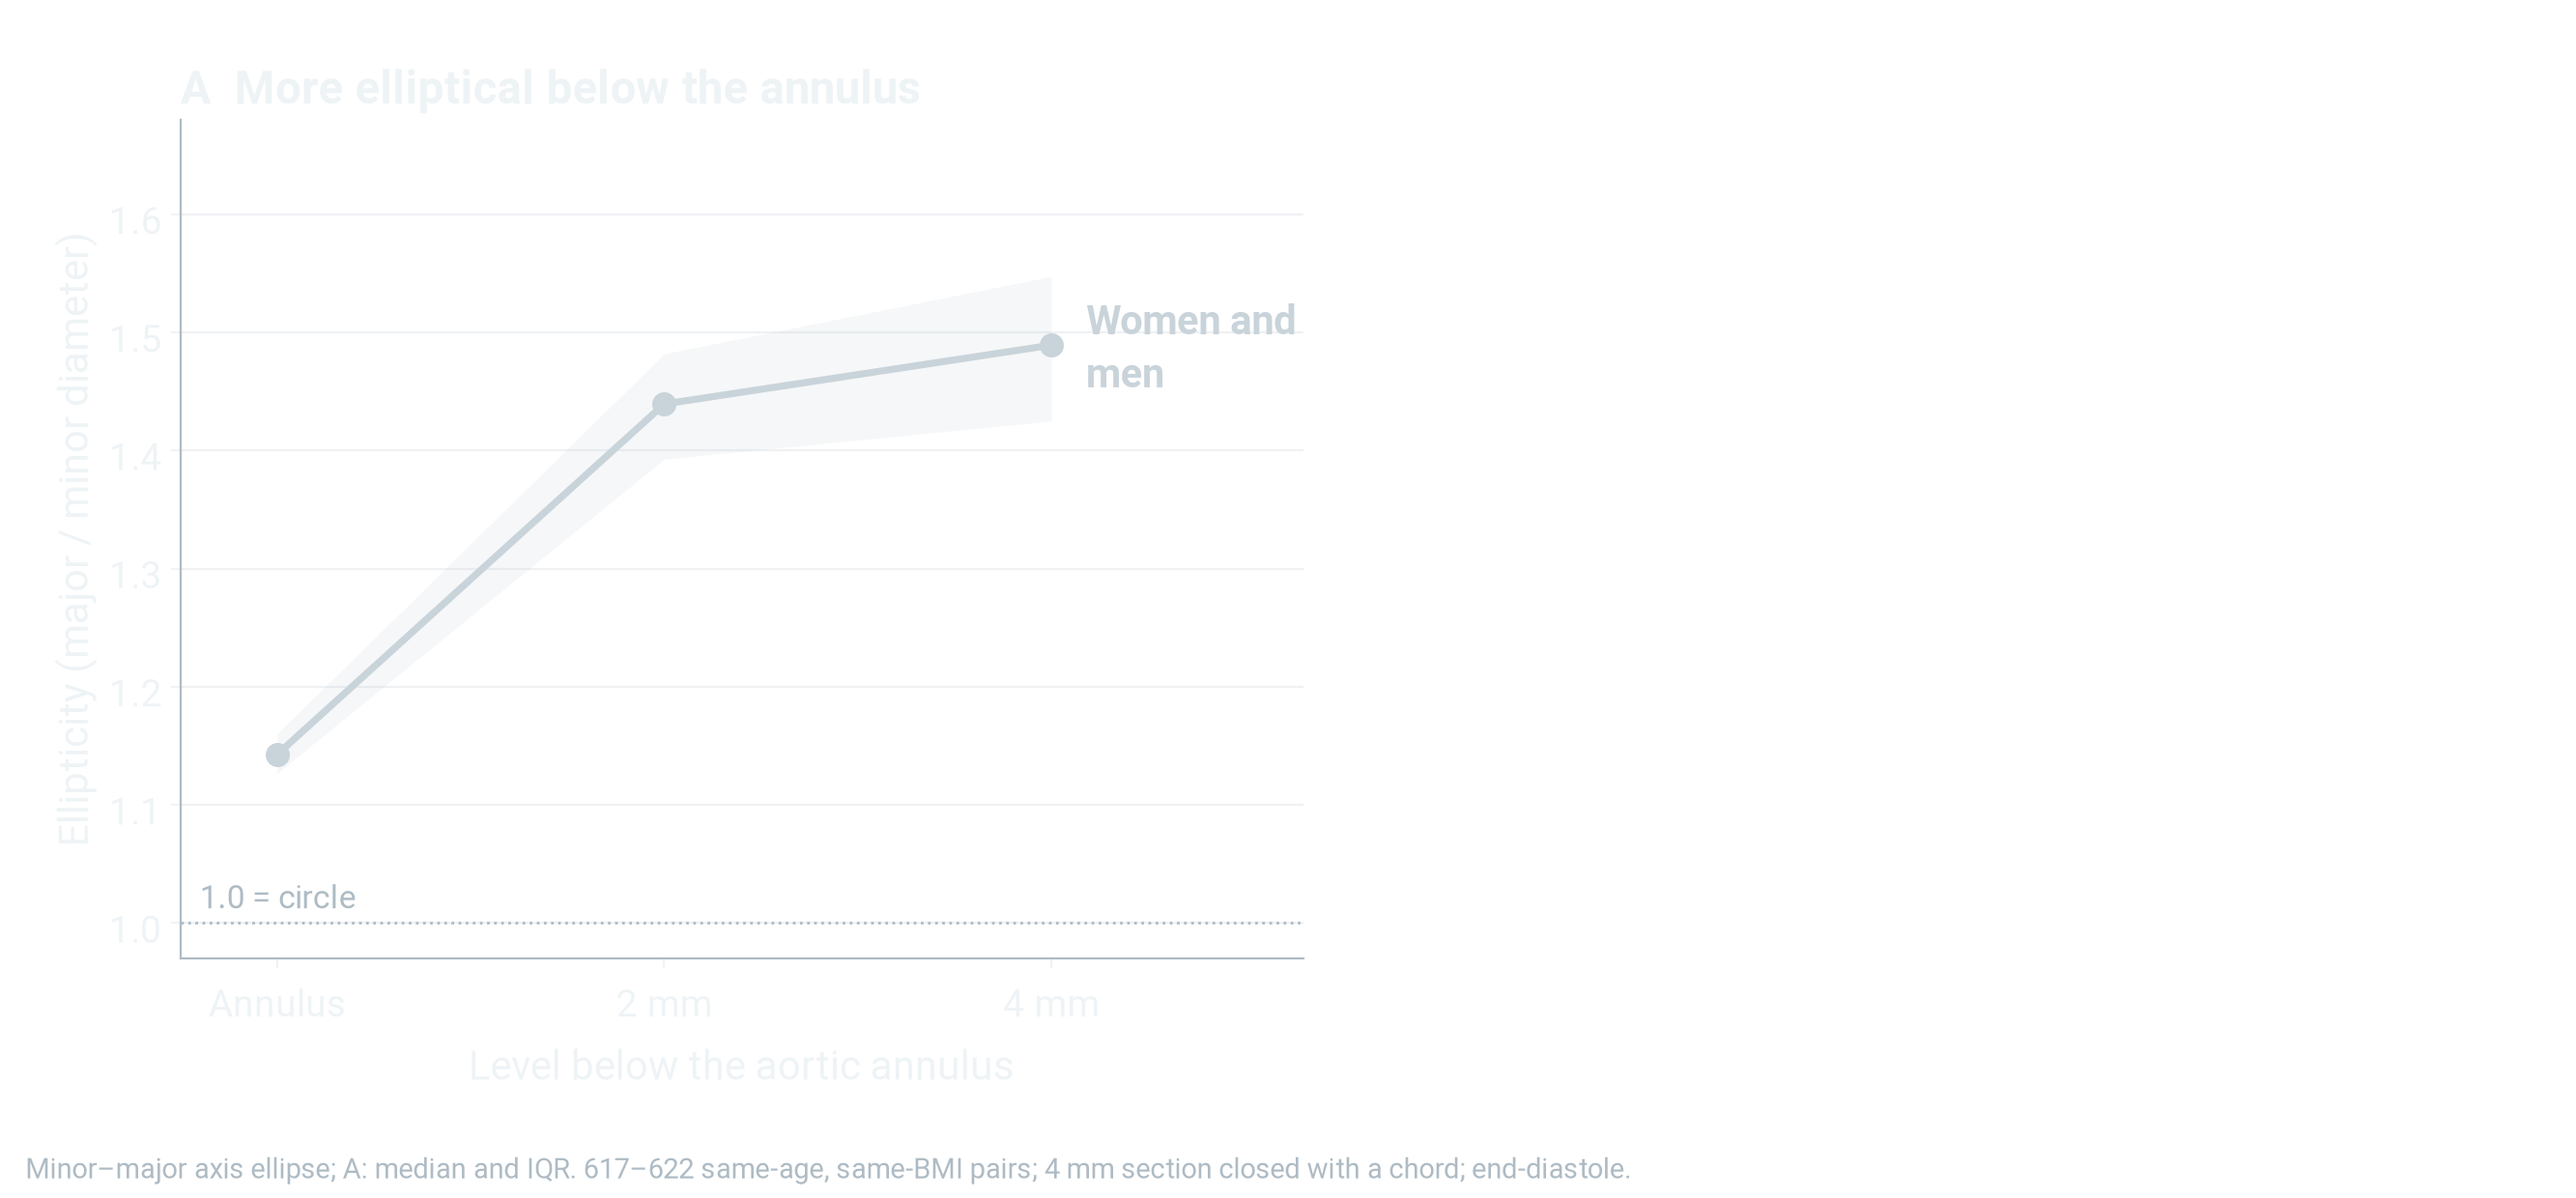
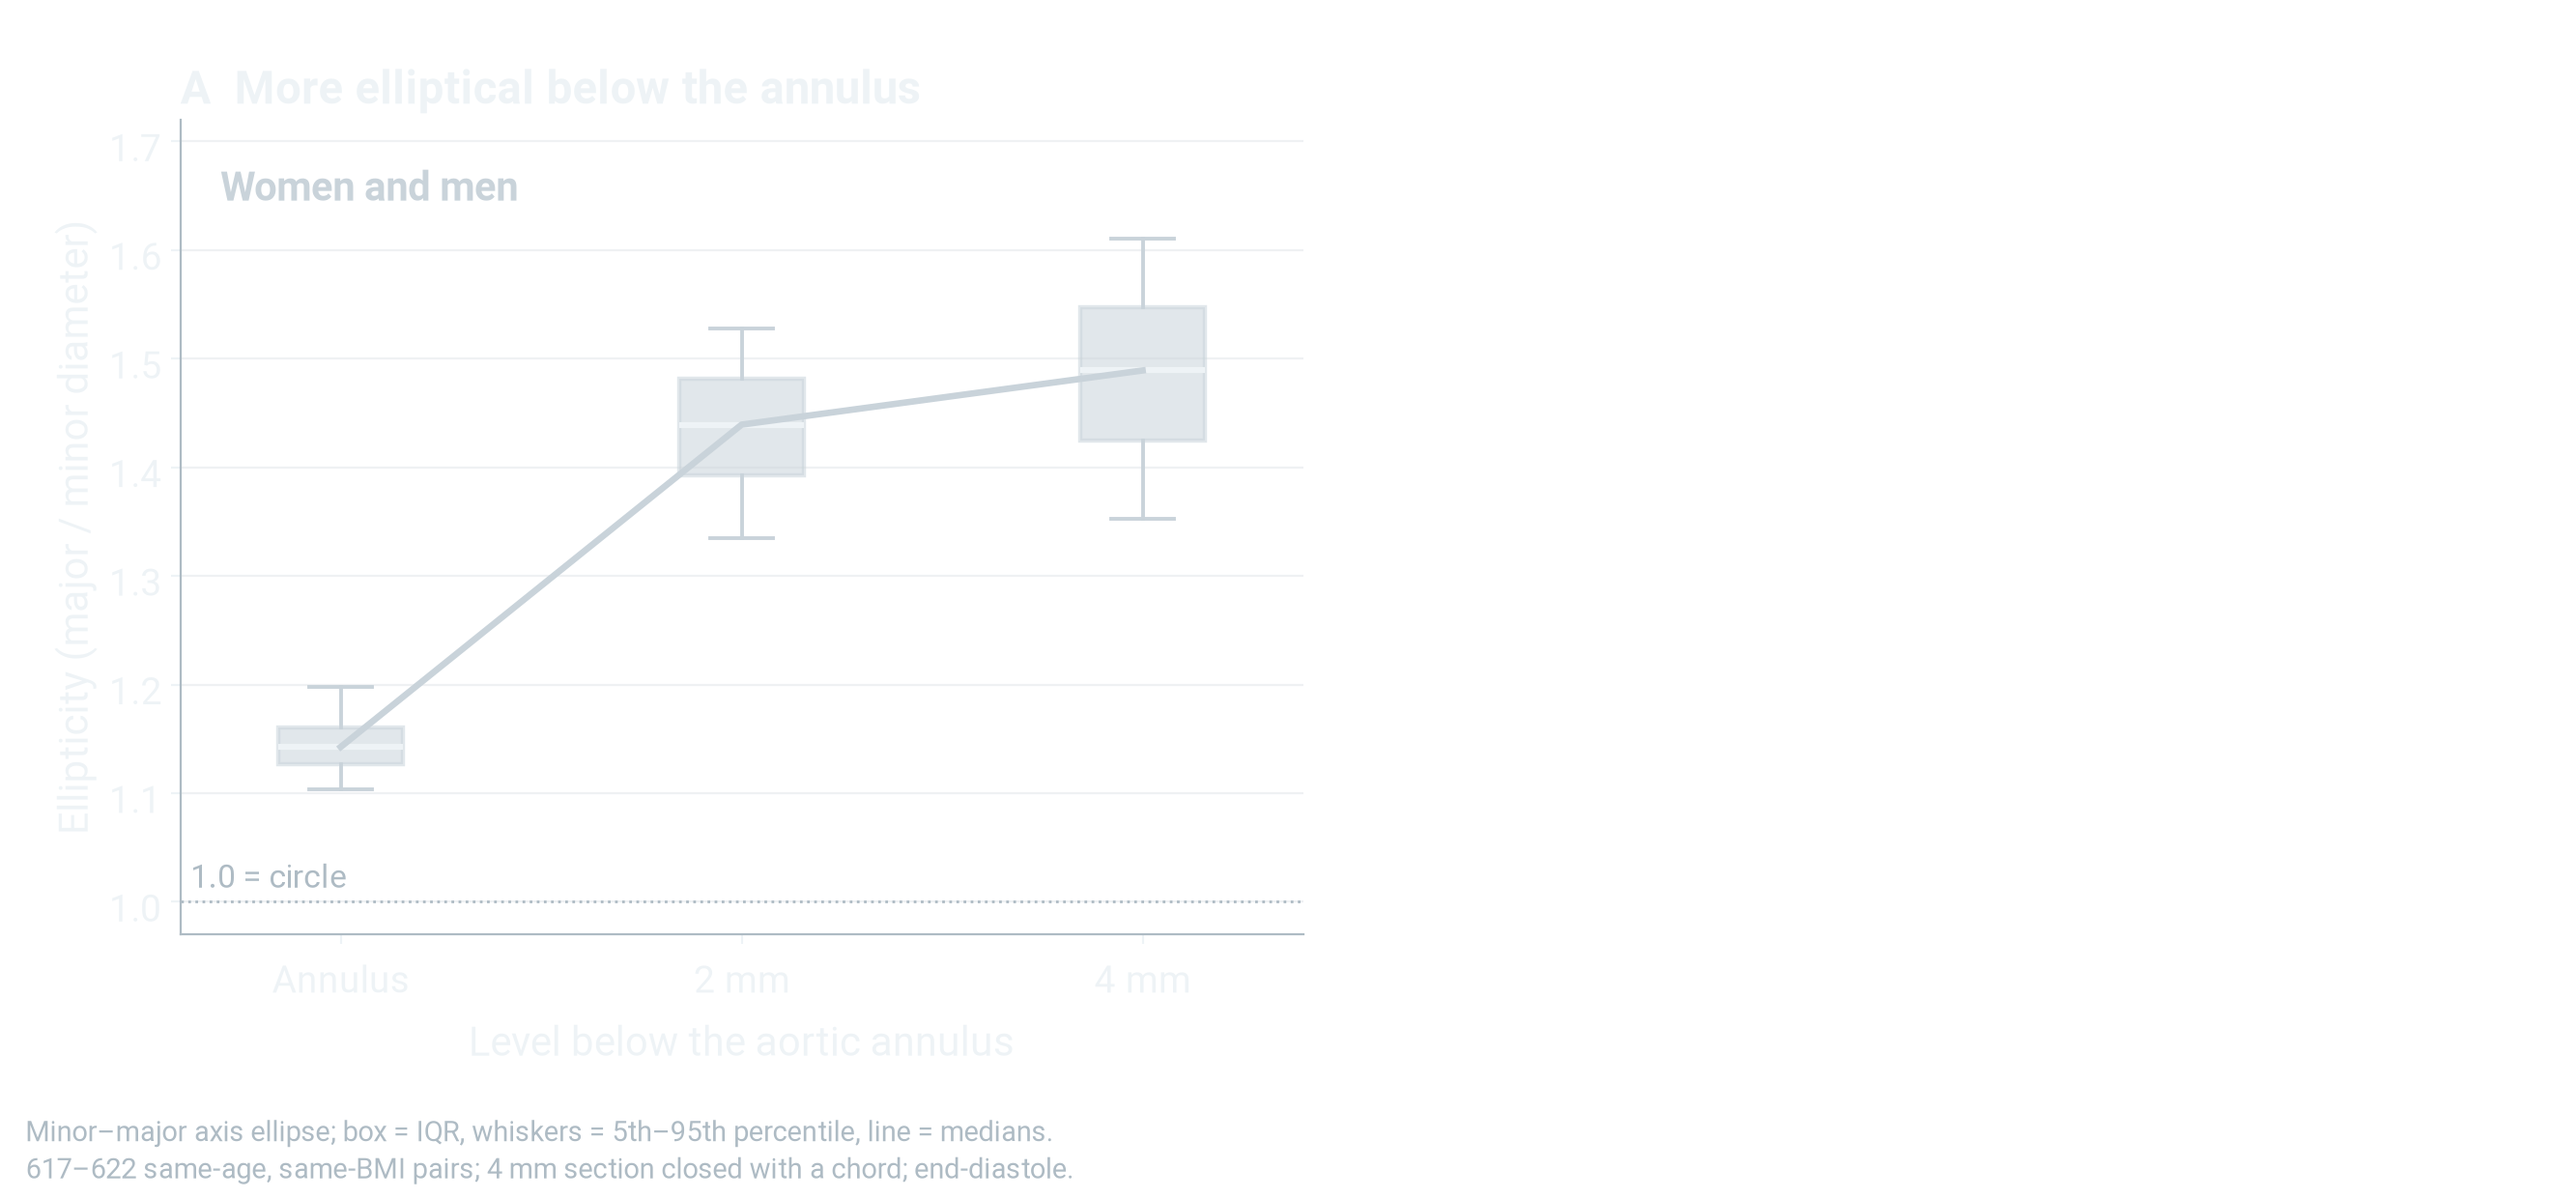
Ellipticity slide figure: box plots with median lines in both panels

diff --git a/scripts/19_ellipticity_depth_slide.py b/scripts/19_ellipticity_depth_slide.py
@@ -2,8 +2,9 @@
 
 One method (minor-major axis ellipse: longest diameter through the centre / the diameter at 90 deg, as in a CT
 reading), matched same-age, same-BMI pairs (one woman's and one man's mesh per pair).
-  A  ellipticity vs depth below the annulus (annulus, 2 mm, 4 mm chord-closed): median line and IQR band
-  B  paired difference women - men at each depth: mean and 95% CI (t), band = IQR of the pair differences
+  A  ellipticity vs depth below the annulus (annulus, 2 mm, 4 mm chord-closed): box plots, line through the medians
+  B  paired difference women - men at each depth: box plots, line through the medians; mean and 95% CI (t) overlaid
+Box = IQR, line in box = median, whiskers = 5th-95th percentile.
 Builds (same layout, so the slide does not jump):
   build 1  A only, both sexes pooled (grey): the LVOT gets more elliptical below the annulus
   build 2  A by sex (coloured) + B: women's LVOT is more elliptical, and the gap grows with depth
@@ -44,26 +45,33 @@ A["ellip"] = A.ct_long / A.ct_short
 X = np.array([dp for _, dp, _ in LEVELS], float)
 
 
-def q(v):
-    return np.percentile(v, [25, 50, 75])
-
-
-# panel A: median and IQR by depth, pooled and by sex
-PROF = {g: np.array([q(A[(A.level == lv) & ((A.sex == g) if g != "all" else True)].ellip.dropna()) for lv, _, _ in LEVELS])
-        for g in ("all", "F", "M")}
-# panel B: paired women - men (same age and BMI) at each depth
-DIFF = []
+# panel A: values by level, pooled and by sex
+V = {g: [A[(A.level == lv) & ((A.sex == g) if g != "all" else True)].ellip.dropna().values for lv, _, _ in LEVELS]
+     for g in ("all", "F", "M")}
+# panel B: paired women - men (same age and BMI) at each level
+D, DIFF = [], []
 for lv, dp, _ in LEVELS:
-    s = A[A.level == lv]
-    p = s[s.sex == "F"].merge(s[s.sex == "M"], on=["age", "bmi"], suffixes=("_F", "_M"))[["ellip_F", "ellip_M"]].dropna()
-    dd = p.ellip_F - p.ellip_M
+    s_ = A[A.level == lv]
+    p = s_[s_.sex == "F"].merge(s_[s_.sex == "M"], on=["age", "bmi"], suffixes=("_F", "_M"))[["ellip_F", "ellip_M"]].dropna()
+    dd = (p.ellip_F - p.ellip_M).values
     half = stats.t.ppf(.975, len(dd) - 1) * dd.std(ddof=1) / np.sqrt(len(dd))
-    DIFF.append(dict(level=lv, depth=dp, n=len(dd), mean=dd.mean(), lo=dd.mean() - half, hi=dd.mean() + half,
-                     q25=dd.quantile(.25), q75=dd.quantile(.75)))
+    D.append(dd)
+    DIFF.append(dict(level=lv, depth=dp, n=len(dd), median=np.median(dd), mean=dd.mean(), lo=dd.mean() - half,
+                     hi=dd.mean() + half))
 DIFF = pd.DataFrame(DIFF)
-for (lv, _, _), f, m in zip(LEVELS, PROF["F"], PROF["M"]):
-    print(f"{lv:26s} median women {f[1]:.2f}  men {m[1]:.2f}")
+for (lv, _, _), f, m in zip(LEVELS, V["F"], V["M"]):
+    print(f"{lv:26s} median women {np.median(f):.2f}  men {np.median(m):.2f}")
 print(DIFF.round(3).to_string(index=False))
+
+
+def boxes(ax, data, xs, col, t, w):
+    bp = ax.boxplot(data, positions=xs, widths=w, whis=(5, 95), showfliers=False, patch_artist=True,
+                    medianprops=dict(color=t["fg"], lw=2.2), whiskerprops=dict(color=col, lw=1.4),
+                    capprops=dict(color=col, lw=1.4), boxprops=dict(edgecolor=col, lw=1.6), manage_ticks=False)
+    for bx in bp["boxes"]:
+        bx.set_facecolor(col); bx.set_alpha(.55)
+    ax.plot(xs, [np.median(v) for v in data], "-", color=col, lw=2.4, zorder=3)
+
 
 ODIR = ROOT / "outputs/figures/slides"
 ODIR.mkdir(parents=True, exist_ok=True)
@@ -91,45 +99,43 @@ def draw(theme, build):
     else:
         fig.patch.set_facecolor(t["bg"])
 
-    # A: ellipticity profile
-    groups = [("all", t["grey"], "Women and\nmen")] if build == 1 else [("F", SEXC["F"], "Women"), ("M", SEXC["M"], "Men")]
-    for g, col, lab in groups:
-        P = PROF[g]
-        a.fill_between(X, P[:, 0], P[:, 2], color=col, alpha=.18, lw=0)
-        a.plot(X, P[:, 1], "-o", color=col, lw=2.6, ms=8, zorder=3)
-        a.text(X[-1] + .18, P[-1, 1], lab, color=col, fontsize=15, fontweight="bold", va="center")
+    # A: ellipticity by level, box plots + line through the medians
+    groups = [("all", t["grey"], "Women and\nmen", 0)] if build == 1 else \
+        [("F", SEXC["F"], "Women", -.38), ("M", SEXC["M"], "Men", .38)]
+    for k, (g, col, lab, dx) in enumerate(groups):
+        boxes(a, V[g], X + dx, col, t, .62)
+        a.text(-.6, 1.66 - .065 * k, lab.replace("\n", " "), color=col, fontsize=15, fontweight="bold", va="center")
     a.axhline(1.0, color=t["muted"], lw=1, ls=":")
-    a.text(-.4, 1.005, "1.0 = circle", fontsize=12, color=t["muted"], va="bottom")
-    a.set_ylim(.97, 1.68)
+    a.text(-.75, 1.005, "1.0 = circle", fontsize=12, color=t["muted"], va="bottom")
+    a.set_ylim(.97, 1.72)
     a.set_ylabel("Ellipticity (major / minor diameter)", fontsize=15, color=t["fg"])
     a.set_title("A  More elliptical below the annulus", loc="left", fontsize=17, fontweight="bold", color=t["fg"])
     style(a, t)
-    a.set_xlim(-.5, 5.3)
+    a.set_xlim(-.8, 4.8)
 
-    # B: paired difference women - men
+    # B: paired difference women - men, box plots + line through the medians, mean and 95% CI overlaid
     b.set_title("B  Women − men, same age and BMI", loc="left", fontsize=17, fontweight="bold", color=t["fg"])
     b.axhline(0, color=t["muted"], lw=1.2)
-    b.set_ylim(-.04, .14)
+    b.set_ylim(-.09, .22)
     b.set_ylabel("Difference in ellipticity", fontsize=15, color=t["fg"])
     style(b, t)
-    b.set_xlim(-.5, 4.9)
+    b.set_xlim(-.7, 5.1)
     if build == 1:
         b.set_visible(False)
     else:
-        b.fill_between(X, DIFF.q25, DIFF.q75, color=SEXC["F"], alpha=.15, lw=0)
-        b.plot(X, DIFF["mean"], "-", color=SEXC["F"], lw=2.2)
-        b.errorbar(X, DIFF["mean"], yerr=[DIFF["mean"] - DIFF.lo, DIFF.hi - DIFF["mean"]], fmt="o", ms=8,
-                   color=SEXC["F"], capsize=5, lw=2, zorder=3)
+        boxes(b, D, X, SEXC["F"], t, .62)
+        b.errorbar(X, DIFF["mean"], yerr=[DIFF["mean"] - DIFF.lo, DIFF.hi - DIFF["mean"]], fmt="D", ms=6,
+                   mfc="white", mec=t["fg"], color=t["fg"], capsize=3, lw=1.4, zorder=4)
         for x_, r in zip(X, DIFF.itertuples()):
-            b.text(x_ + .2, r.mean, f"{r.mean:+.2f}", ha="left", va="center", fontsize=14, fontweight="bold",
+            b.text(x_ + .36, r.median, f"{r.median:+.2f}", ha="left", va="center", fontsize=14, fontweight="bold",
                    color=t["fg"])
-        b.text(4.45, -.004, "0 = no difference", fontsize=12, color=t["muted"], ha="right", va="top")
+        b.text(3.0, -.006, "0 = no difference", fontsize=12, color=t["muted"], ha="center", va="top")
 
-    note = ("Minor–major axis ellipse; A: median and IQR" +
-            ("; B: mean and 95% CI of the paired differences, band = IQR" if build == 2 else "") +
-            f". {DIFF.n.min()}–{DIFF.n.max()} same-age, same-BMI pairs; 4 mm section closed with a chord; end-diastole.")
+    note = ("Minor–major axis ellipse; box = IQR, whiskers = 5th–95th percentile, line = medians" +
+            ("; B: paired differences, white diamond = mean and 95% CI, numbers = medians" if build == 2 else "") + ".\n" +
+            f"{DIFF.n.min()}–{DIFF.n.max()} same-age, same-BMI pairs; 4 mm section closed with a chord; end-diastole.")
     fig.text(.01, .01, note, fontsize=10.5, color=t["muted"], ha="left", va="bottom")
-    fig.subplots_adjust(left=.07, right=.98, top=.9, bottom=.2)
+    fig.subplots_adjust(left=.07, right=.98, top=.9, bottom=.22)
     out = ODIR / f"ellipticity_depth_{theme}_build{build}.png"
     fig.savefig(out, dpi=200, transparent=t["bg"] is None)
     plt.close(fig)

diff --git a/docs/PIPELINE.md b/docs/PIPELINE.md
@@ -101,7 +101,7 @@ Code: [`scripts/03_analysis.py`](../scripts/03_analysis.py).
 [`scripts/16_mesh_explainer.py`](../scripts/16_mesh_explainer.py) → `outputs/figures/mesh_explainer.png`; [`scripts/17_mesh_slide.js`](../scripts/17_mesh_slide.js) → `outputs/slide_what_is_a_mesh.pptx` (one slide, full-slide figure, speaker notes).
 
 ## STEP 7e — Ellipticity slide figure (depth profile + paired sex difference, two builds)
-[`scripts/19_ellipticity_depth_slide.py`](../scripts/19_ellipticity_depth_slide.py) → `outputs/figures/slides/ellipticity_depth_{dark,light}_build{1,2}.png`. Two panels, same layout in both builds. A: ellipticity vs level below the annulus (annulus, 2 mm, 4 mm chord-closed), median line and IQR band; build 1 pooled (grey), build 2 women vs men. B (build 2): paired women − men difference per level, mean and 95% CI (t), band = IQR of the pair differences. Minor–major axis ellipse, same-age, same-BMI pairs.
+[`scripts/19_ellipticity_depth_slide.py`](../scripts/19_ellipticity_depth_slide.py) → `outputs/figures/slides/ellipticity_depth_{dark,light}_build{1,2}.png`. Two panels, same layout in both builds. A: ellipticity vs level below the annulus (annulus, 2 mm, 4 mm chord-closed), box plots (IQR, 5th–95th percentile whiskers) with a line through the medians; build 1 pooled (grey), build 2 women vs men. B (build 2): box plots of the paired women − men differences per level, line through the medians, mean and 95% CI (t) overlaid. Minor–major axis ellipse, same-age, same-BMI pairs.
 
 ## STEP 7f — Ellipticity slide (ready to present)
 [`scripts/20_ellipticity_slide.js`](../scripts/20_ellipticity_slide.js) → `outputs/slide_ellipticity_static.pptx` (two slides: build 1, build 2) and `outputs/slide_ellipticity_animated.pptx` (one slide); [`scripts/20_add_click_build.py`](../scripts/20_add_click_build.py) then adds the on-click build to the animated slide (headline 2 and the coloured chart appear, the grey chart disappears). Dark green background, Roboto, "women's" in the women colour, footnote with method and sample.

diff --git a/FIGURES.md b/FIGURES.md
@@ -92,7 +92,7 @@ PY=python   # Python 3.11 with requirements.txt installed
 | Code | [`scripts/19_ellipticity_depth_slide.py`](scripts/19_ellipticity_depth_slide.py) |
 | Run | `$PY scripts/19_ellipticity_depth_slide.py` |
 | Input | `outputs/tables/area_methods_by_mesh.csv` |
-| What it shows | Two panels (minor–major axis ellipse, same-age, same-BMI pairs). A: ellipticity at the annulus, 2 mm and 4 mm, median and IQR (build 1 pooled, build 2 women vs men). B (build 2 only): paired women − men difference at each level, mean and 95% CI, band = IQR of the pair differences: +0.00 at the annulus, +0.06 at 2 mm, +0.08 at 4 mm |
+| What it shows | Two panels (minor–major axis ellipse, same-age, same-BMI pairs). A: ellipticity at the annulus, 2 mm and 4 mm as box plots (box = IQR, whiskers = 5th–95th percentile) with a line through the medians (build 1 pooled, build 2 women vs men). B (build 2 only): box plots of the paired women − men differences with a line through the medians (+0.00 at the annulus, +0.06 at 2 mm, +0.09 at 4 mm) and the mean ± 95% CI overlaid (+0.00, +0.06, +0.08) |
 
 Ready-made slide using these images: `outputs/slide_ellipticity_animated.pptx` (one slide, on-click build) and `outputs/slide_ellipticity_static.pptx` (two slides). Code: [`scripts/20_ellipticity_slide.js`](scripts/20_ellipticity_slide.js) + [`scripts/20_add_click_build.py`](scripts/20_add_click_build.py).
 
